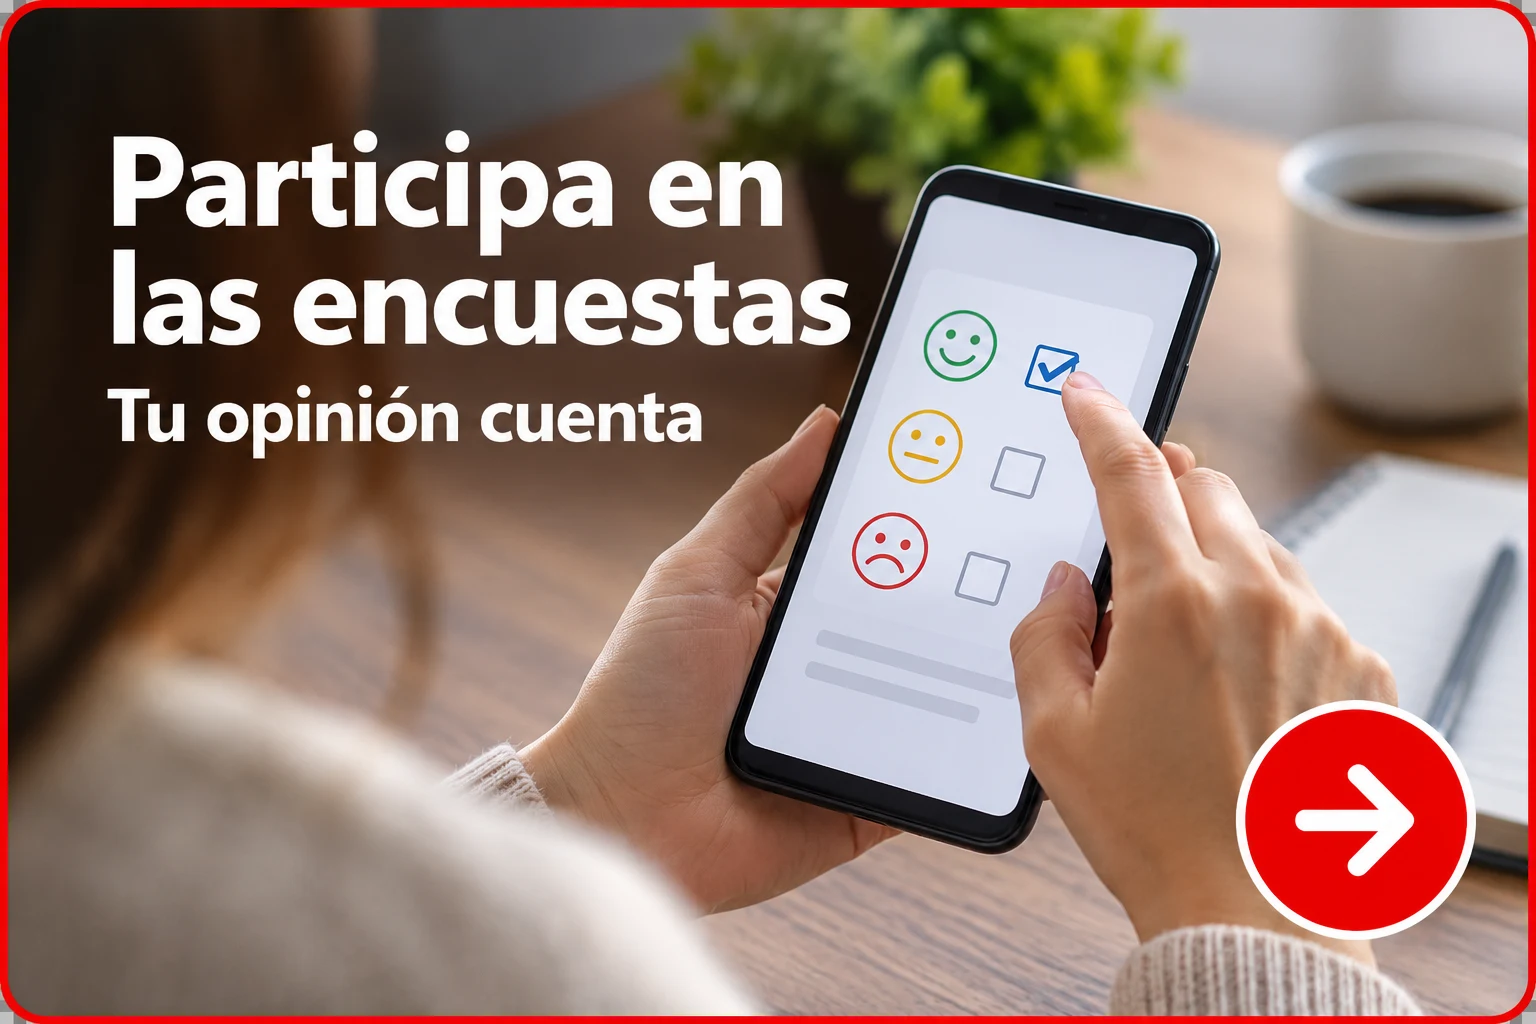
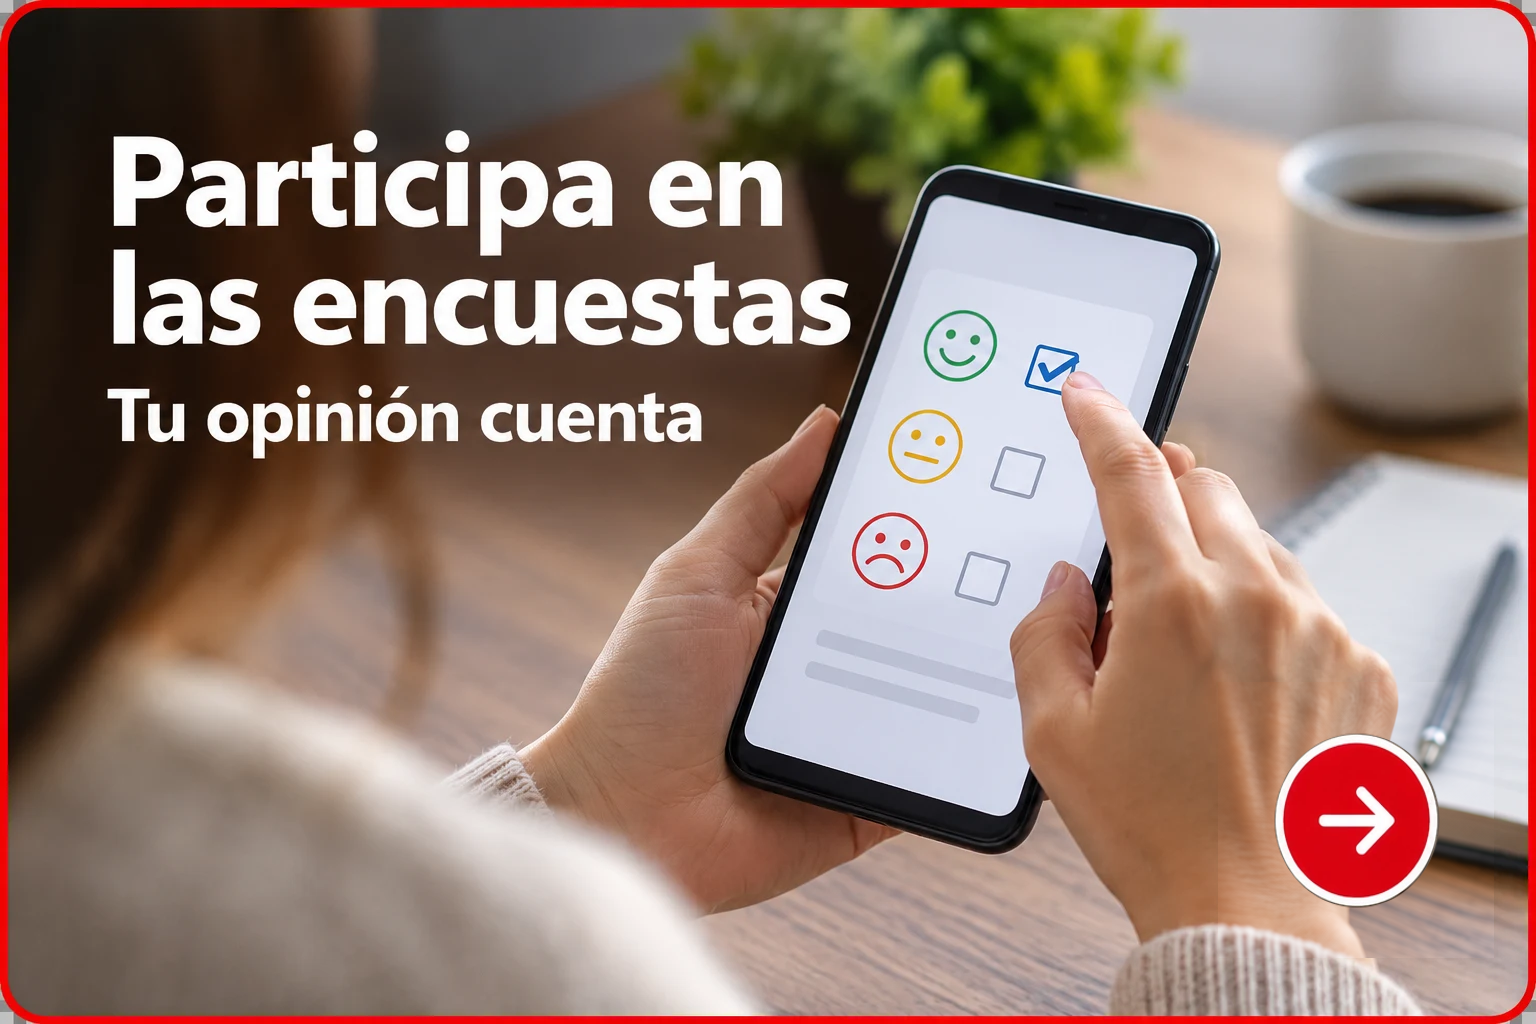
Match survey and paid-leave arrow buttons to Menu reference

Changed region(s): [[0.7812, 0.6875, 0.9688, 0.9375]]

diff --git a/service-worker.js b/service-worker.js
@@ -1,4 +1,4 @@
-const CACHE_NAME = 'str-ig-cache-v151-votaciones-private';
+const CACHE_NAME = 'str-ig-cache-v152-votaciones-private';
 
 const SUPABASE_URL = 'https://icneigdnuntzugisexaz.supabase.co';
 const APP_ORIGIN = self.location.origin;
